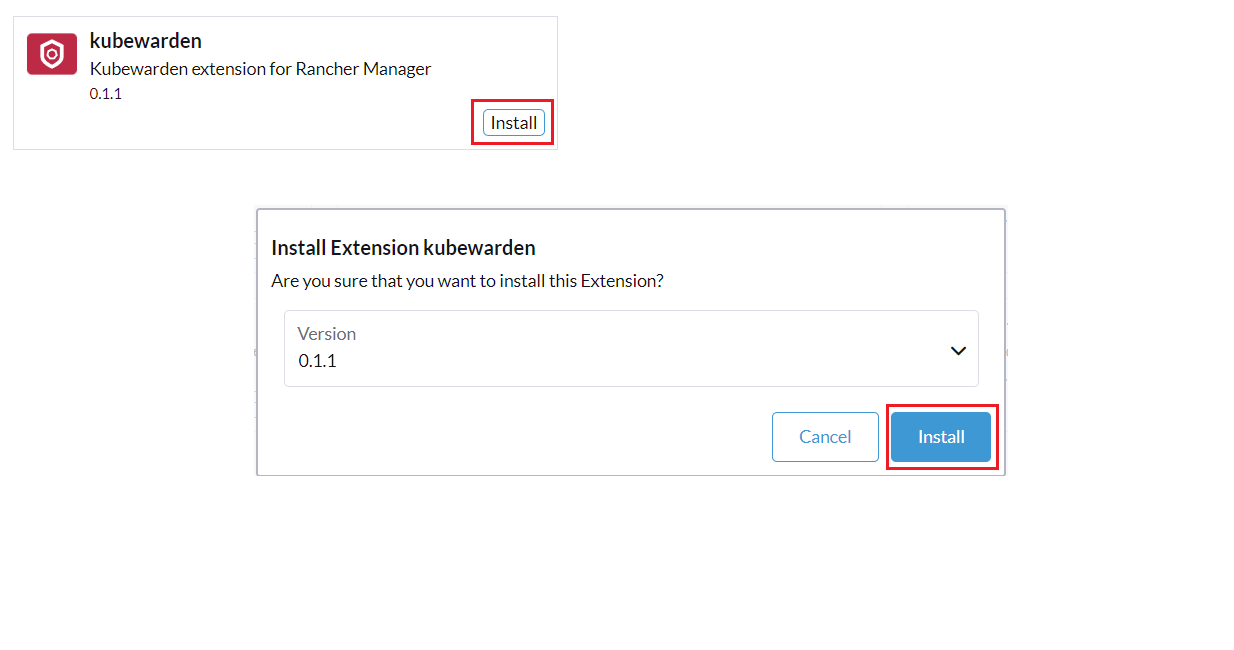
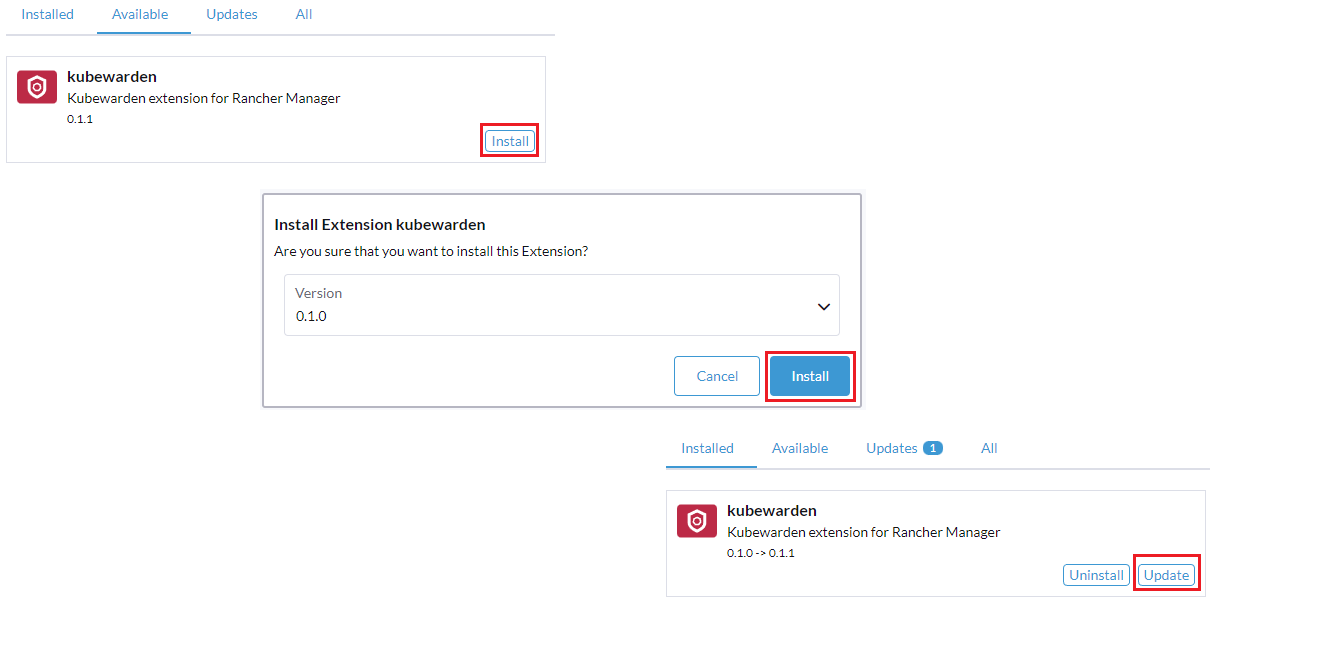
Update steps per feedback

diff --git a/docs/integrations-in-rancher/rancher-extensions.md b/docs/integrations-in-rancher/rancher-extensions.md
@@ -2,7 +2,7 @@
 title: Rancher Extensions
 ---
 
-New in Rancher v2.7.0, Rancher introduces **extensions**. Extensions allow users, developers, partners, and customers to extend and enhance the Rancher Manager UI. In addition, users can make changes and create enhancements to their UI functionality independent of Rancher Manager releases. Extensions will enable users to build on top of Rancher to better tailor it to their respective environments.
+New in Rancher v2.7.0, Rancher introduces **extensions**. Extensions allow users, developers, partners, and customers to extend and enhance the Rancher Manager UI. In addition, users can make changes and create enhancements to their UI functionality independent of Rancher Manager releases. Extensions will enable users to build on top of Rancher to better tailor it to their respective environments. Note that users will also have the ability to update to new versions as well as roll back to a previous version.
 
 Extensions are Helm charts that can only be installed once into a cluster; therefore, these charts have been simplified and separated from the general Helm charts listed under **Apps & Marketplace**.
 
@@ -10,7 +10,7 @@ Examples of built-in Rancher Manager extensions are Fleet, Explorer, and Harvest
 
 ## Prerequisites
 
-You must log in as an admin in order to view and install extensions.
+> You must log in as an admin in order to view and interact with the extensions management page.
 
 ## Installing Extensions
 
@@ -41,12 +41,40 @@ In v2.7.0, the built-in extensions will not be displayed under the **Available**
 
     ![Manage repositories](/img/manage-repos.png)
 
-5. Refresh your **Extensions** screen to ensure the extension is now visible.
-
-6. Click **Install** on the desired extension and version as in the example below. Note that you can easily update your extension as the button to **Update** will appear on the extension if one is available.
+5. Under the **Available** tab, click **Install** on the desired extension and version as in the example below. Note that you can easily update your extension as the button to **Update** will appear on the extension if one is available.
 
     ![Install Kubewarden](/img/install-kubewarden.png)
 
-## Uninstalling Extensions 
+6. Click the **Reload** page button that will appear after your extension successfully installs. Note that a logged-in user who has just installed an extension will not see a change to the UI **unless** they reload the page.
 
-Under the **Installed** tab, click the **Uninstall** button on the extension you wish to remove.
+    ![Reload button](/img/reload-button.png)
+
+## Uninstalling Extensions
+
+There are two ways in which you can uninstall or disable your extensions:
+
+1. Under the **Installed** tab, click the **Uninstall** button on the extension you wish to remove.
+
+    ![Uninstall extensions](/img/uninstall-extension.png)
+
+1. On the extensions management page, click **⋮ > Disable Extension Support**. This will disable all installed extensions.
+
+    ![Disable extensions](/img/disable-extension-support.png)
+
+:::caution
+
+You must reload the page after disabling extensions or display issues may occur.
+
+:::
+
+## Rolling Back Extensions
+
+Under the **Installed** tab, click the **Rollback** button on the extension you wish to roll back.
+
+![Roll back extensions](/img/roll-back-extension.png)
+
+:::caution
+
+You must reload the page after rolling back extensions or display issues may occur.
+
+:::
